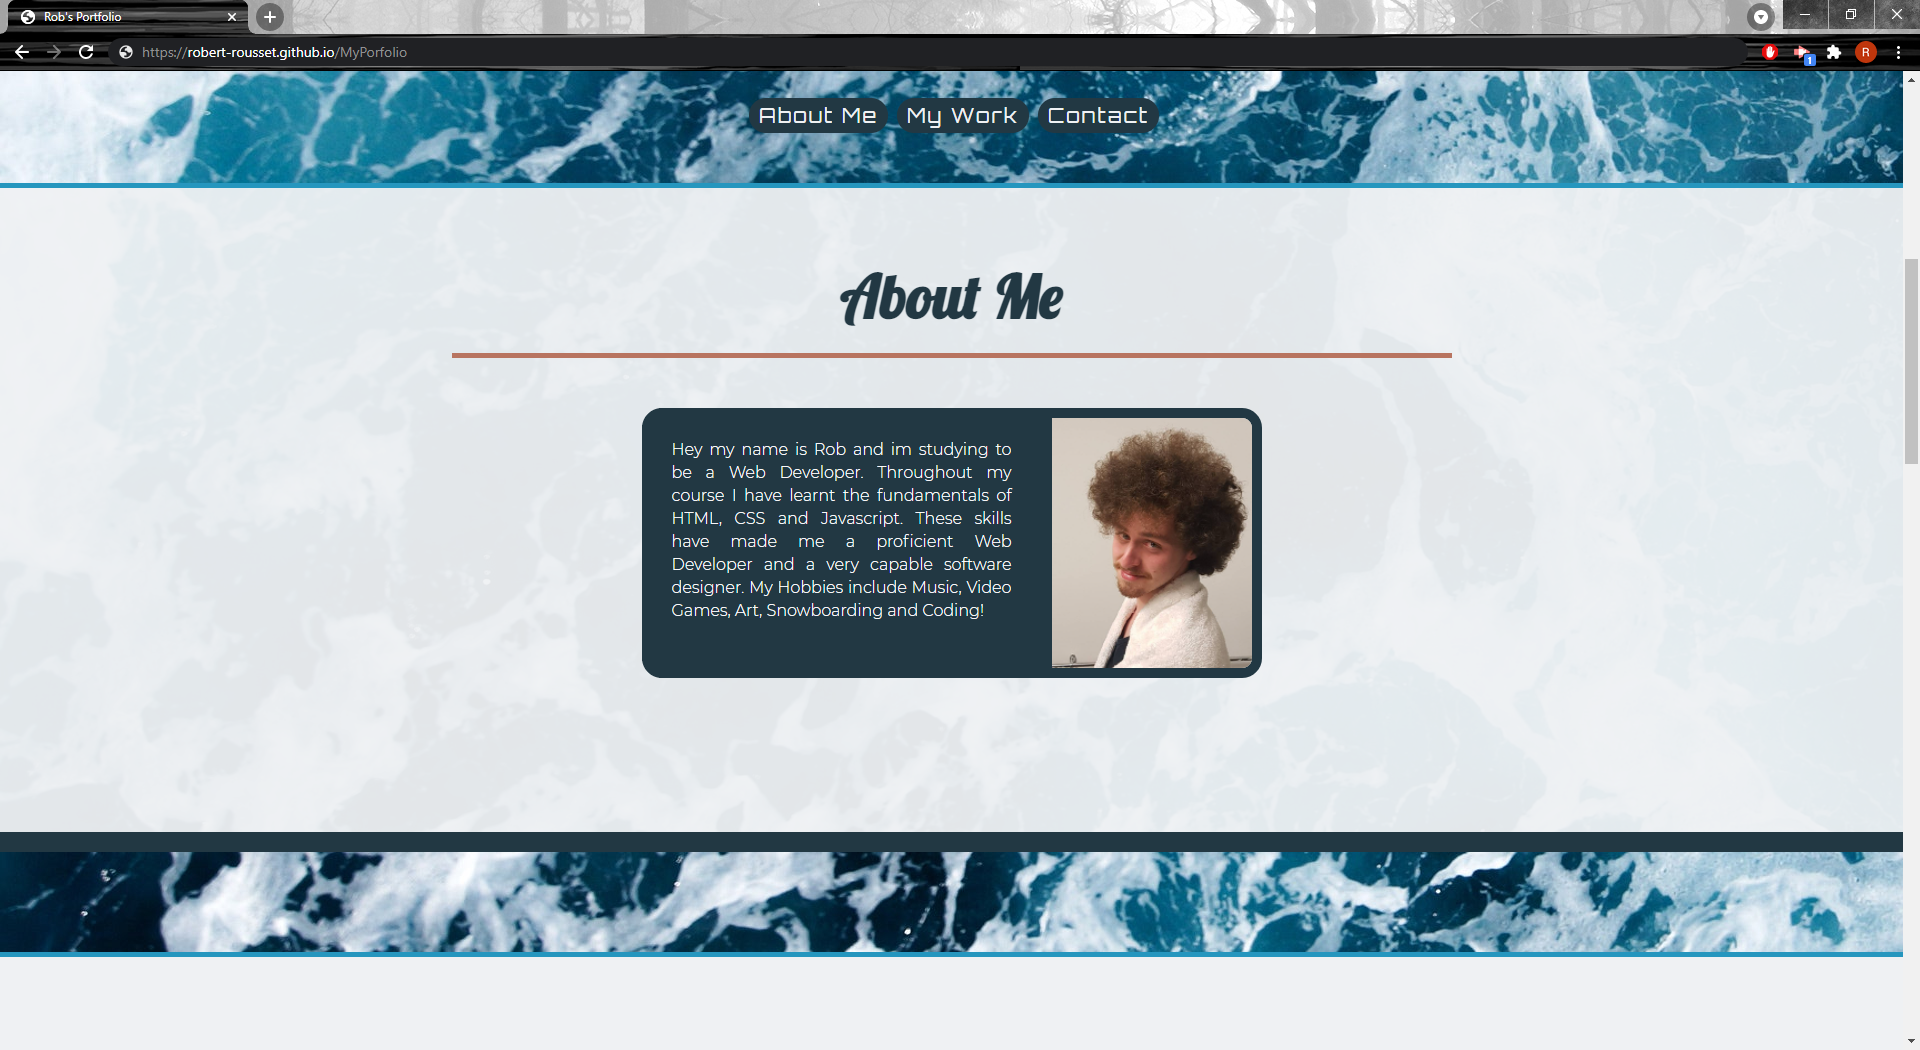
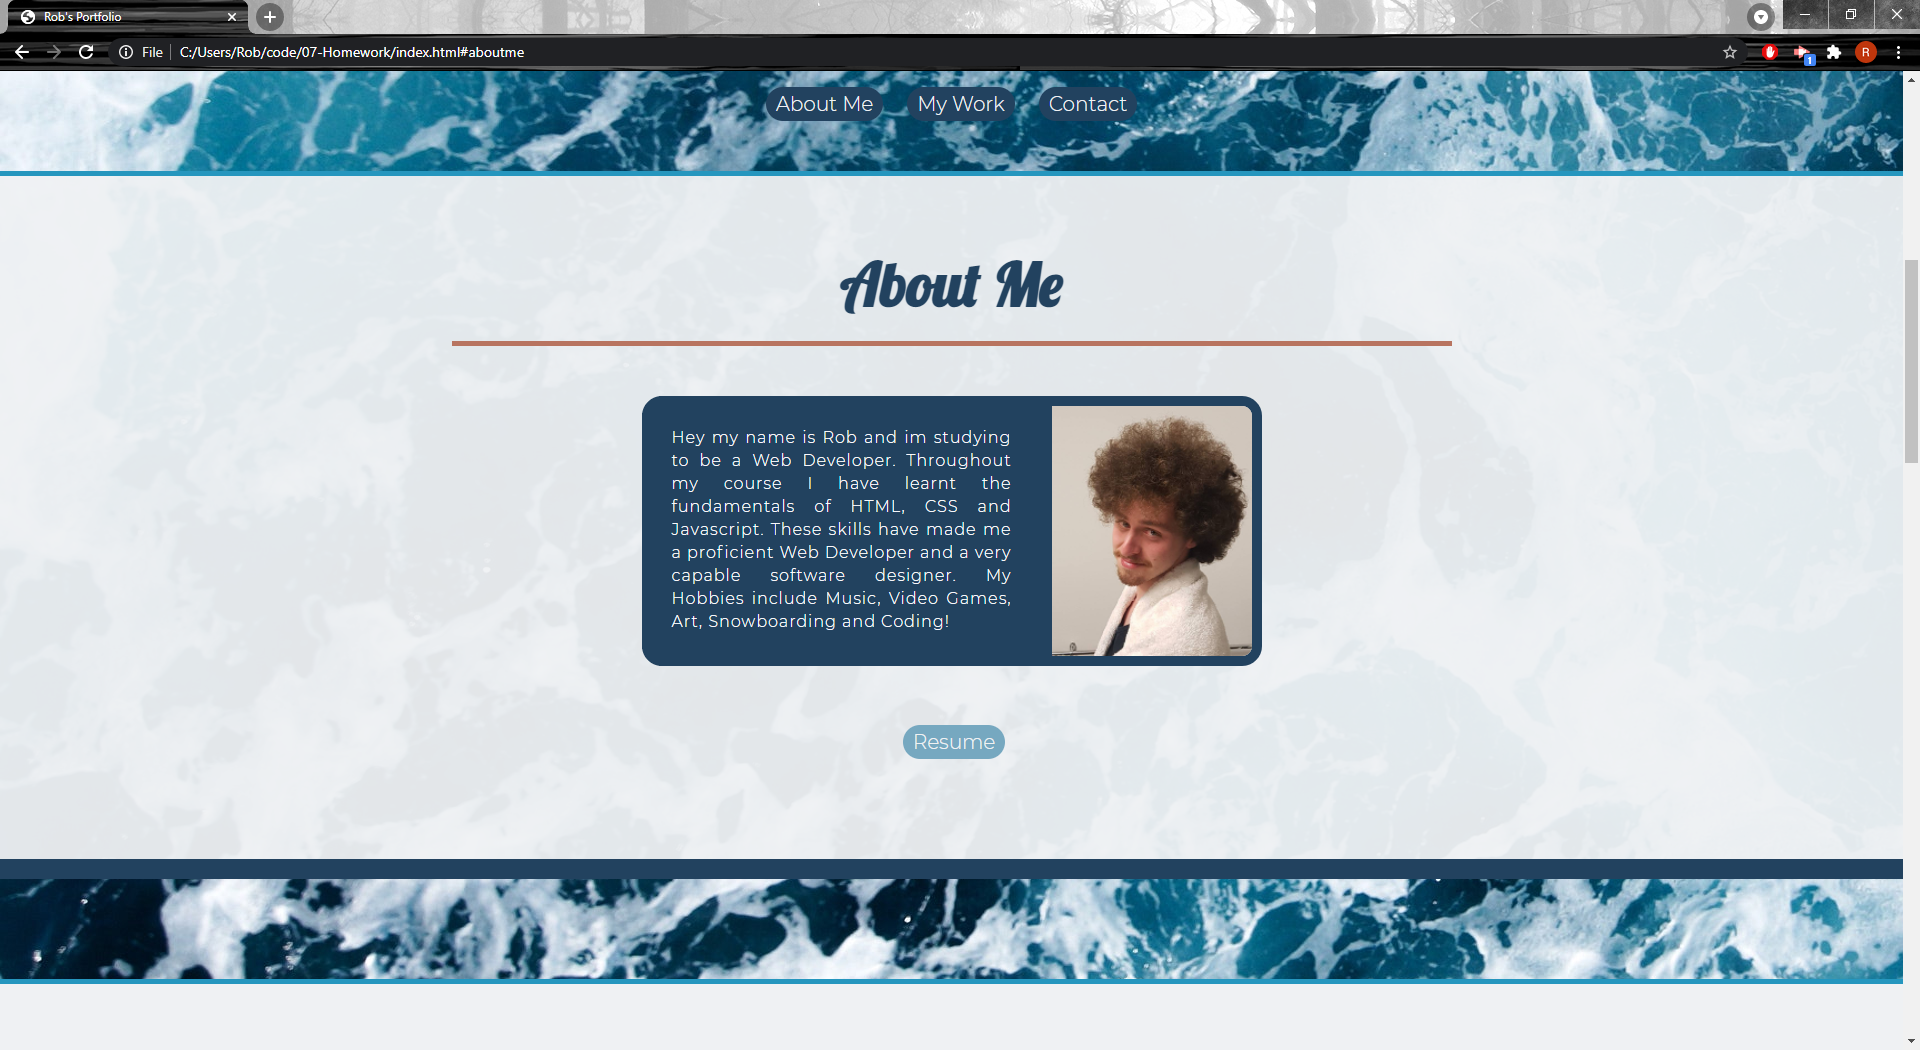
made sure links take you to a new tab, and updated screenshots

Changed region(s): [[0.0, 0.7924, 1.0, 0.9448], [0.25, 0.2438, 0.75, 0.7314], [0.0, 0.0305, 1.0, 0.1829]]

diff --git a/index.html b/index.html
@@ -44,7 +44,7 @@
             </figure>
         </article>
         <div id="resume">
-        <a href="./Assets/Web Development Resume.pdf"><button class="resume">Resume</button></a>
+        <a href="./Assets/Web Development Resume.pdf" target="_blank"><button class="resume">Resume</button></a>
         </div>
     </section>
 
@@ -53,27 +53,27 @@
 
         <article class="work">
             <div class="cardBigger">
-                <a href="https://robert-rousset.github.io/MMM-Farm-App/"><img class="mainProjectImage"
+                <a href="https://robert-rousset.github.io/MMM-Farm-App/" target="_blank"><img class="mainProjectImage"
                         src="./Images/Project Screenshots/Project1-Screenshot.png" alt="woo"></a>
                 <p>Project1</p>
             </div>
             <div class="workCard">
-                <a href="https://robert-rousset.github.io/Weather-Dashboard/"><img class="otherImage"
+                <a href="https://robert-rousset.github.io/Weather-Dashboard/" target="_blank"><img class="otherImage"
                         src="./Images/Project Screenshots/Weather-Dashboard-Screenshot.png" alt="woo"></a>
                 <p>Weather Dashboard</p>
             </div>
             <div class="workCard">
-                <a href="https://robert-rousset.github.io/Daily-Planner/"><img class="otherImage"
+                <a href="https://robert-rousset.github.io/Daily-Planner/" target="_blank"><img class="otherImage"
                         src="./Images/Project Screenshots/Work-Day-Scheduler.png" alt="woo"></a>
                 <p>Work Day Scheduler</p>
             </div>
             <div class="workCard">
-                <a href="https://robert-rousset.github.io/Robs-Quiz-Game/"><img class="otherImage"
+                <a href="https://robert-rousset.github.io/Robs-Quiz-Game/" target="_blank"><img class="otherImage"
                         src="./Images/Project Screenshots/Quiz-Screenshot.png" alt="woo"></a>
                 <p>Quiz Game</p>
             </div>
             <div class="workCard">
-                <a href="https://robert-rousset.github.io/Password-Generator/"><img class="otherImage"
+                <a href="https://robert-rousset.github.io/Password-Generator/" target="_blank"><img class="otherImage"
                         src="./Images/Project Screenshots/Password-Generator-Screenshot.png" alt="woo"></a>
                 <p>Password Generator</p>
             </div>
@@ -87,20 +87,20 @@
         <article class="contact">
             <div class="contactImgBox">
                 <img src="Images/Buttons/phone.png">
-                <a href="https://www.gmail.com"><img src="Images/Buttons/email.png"></a>
-                <a href="https://github.com/Robert-Rousset"><img src="Images/Buttons/github.png"></a>
-                <a href="https://www.linkedin.com/in/robert-rousset-3a8300193/"><img src="Images/Buttons/linkedin.png"></a>
+                <a href="https://www.gmail.com" target="_blank"><img src="Images/Buttons/email.png"></a>
+                <a href="https://github.com/Robert-Rousset" target="_blank"><img src="Images/Buttons/github.png"></a>
+                <a href="https://www.linkedin.com/in/robert-rousset-3a8300193/" target="_blank"><img src="Images/Buttons/linkedin.png"></a>
             </div>
 
             <div class="contactBox">
                 <p>0499992840</p>
 
                 <p>
-                    <a href="https://www.gmail.com">robertstokesrousset@gmail.com</a></p>
+                    <a href="https://www.gmail.com" target="_blank">robertstokesrousset@gmail.com</a></p>
                 <p>
-                    <a href="https://github.com/Robert-Rousset">github.com</a></p>
+                    <a href="https://github.com/Robert-Rousset" target="_blank">github.com</a></p>
                 <p>
-                    <a href="https://www.linkedin.com/in/robert-rousset-3a8300193/">linkedin.com</a>
+                    <a href="https://www.linkedin.com/in/robert-rousset-3a8300193/" target="_blank">linkedin.com</a>
                 </p>
             </div>
         </article>

diff --git a/Assets/style.css b/Assets/style.css
@@ -57,6 +57,7 @@ h2 {
 #aboutme {
     background-color: rgb(239, 241, 243,.95);
     margin-top: 50px;
+    padding-top: 20px;
     min-height: fit-content;
     border-top: 5px solid var(--primary);
     border-bottom: 20px solid var(--dark);
@@ -135,7 +136,6 @@ h2 {
     background-color: var(--light);
     margin-top: 100px;
     padding: 20px;
-    padding-top: 50px;
     border-top: 5px solid var(--primary);
     border-bottom: 20px solid var(--dark);
     min-height: fit-content;
@@ -335,10 +335,11 @@ button:hover{
 @media screen and (max-width: 619px) {
     .bio {
         border-radius: 20px;
+        padding-bottom: 80px;
     }
     .profilePic {
         border-radius: 20px;
-        margin-top: 16px;
+        margin-top: -10px;
     }
 /* 
 Just to make sure the email doesnt overflow */
